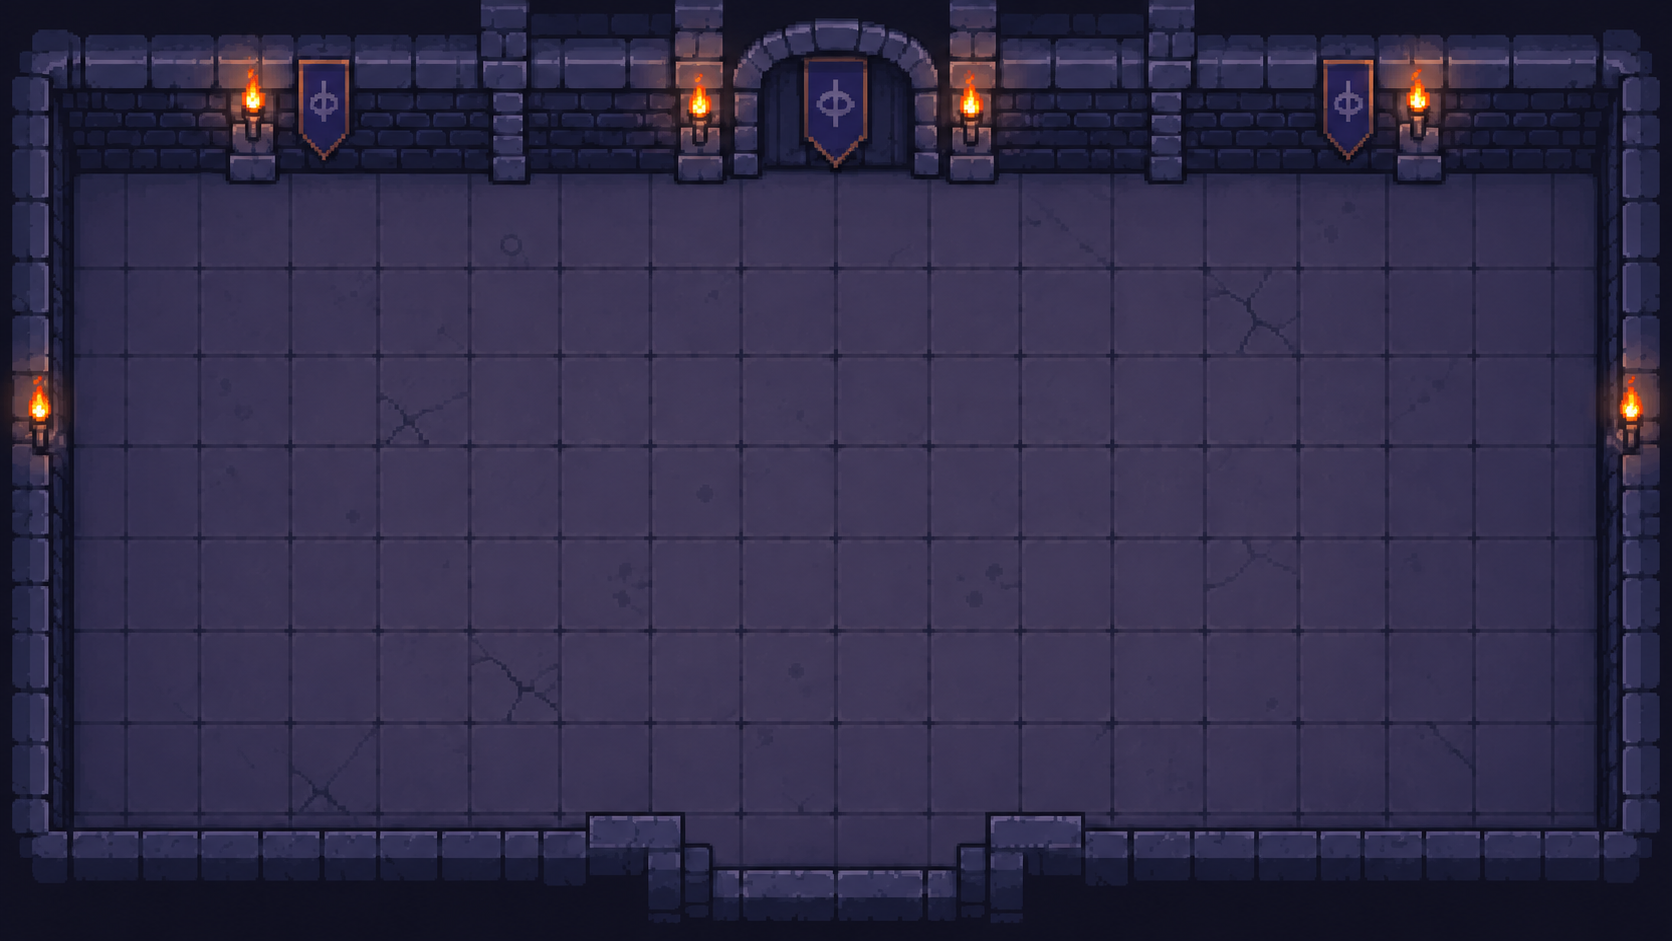
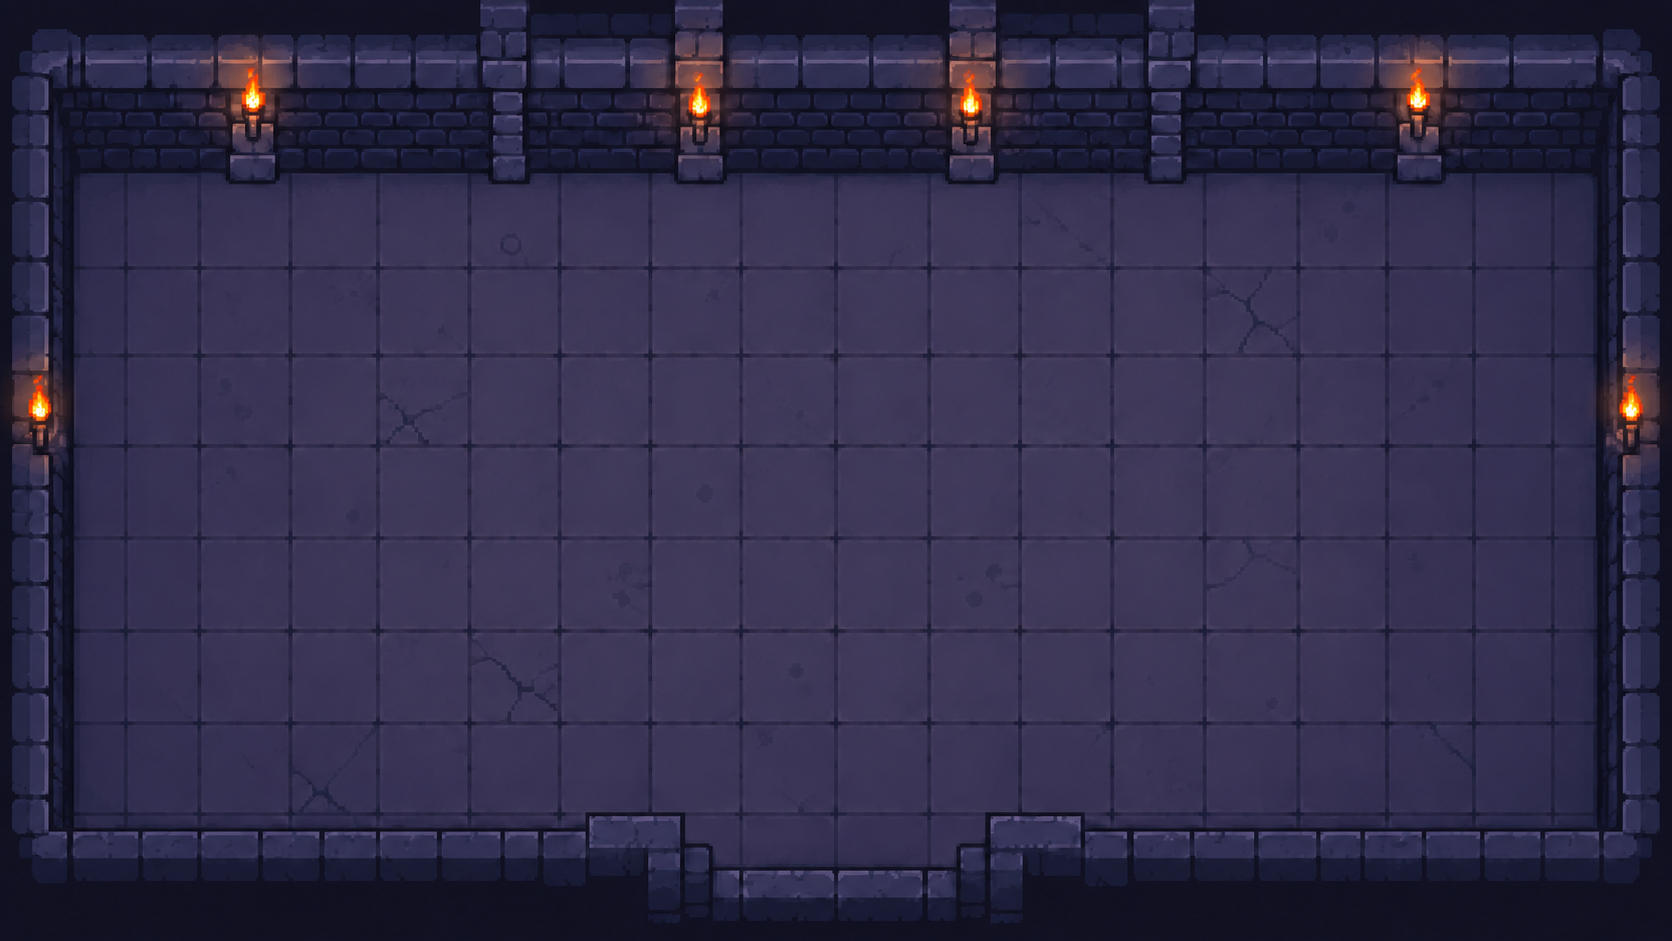
door display

diff --git a/entities/interactables/door.py b/entities/interactables/door.py
@@ -1,0 +1,74 @@
+import pygame
+from core.constants import COLOR_HITBOX_DEBUG
+from core.asset_manager import AssetManager
+
+class Door:
+    """Représente une porte avec sa zone d'entrée et sa récompense."""
+
+    def __init__(self, size: tuple[int, int], centerx: float, bottom: float) -> None:
+        # Frames d'une porte
+        self.frames = [
+            AssetManager.get_image(
+                f"assets/rooms/door_frames/door_{index}.png",
+                scale=size
+            )
+            for index in range(6)
+        ]
+        self.frame_index = 0
+        self.image = self.frames[self.frame_index]
+        self.rect = self.image.get_rect(
+            midbottom=(round(centerx), round(bottom))
+        )
+
+        # Etat de la porte
+        self.is_open = False
+        self.reward_id: str | None = None
+
+        self.animation_timer = 0.0
+        self.frame_duration = 0.08  # Secondes entre deux frames
+
+        # Zone d'entrée placée juste devant la porte
+        self.trigger_rect = pygame.Rect(0, 0, self.rect.width, 50)
+        self.trigger_rect.midtop = self.rect.midbottom
+
+    def can_enter(self, player_rect: pygame.Rect) -> bool:
+        """Indique si le joueur peut entrer dans la porte."""
+        return (
+            self.is_open
+            and self.trigger_rect.colliderect(player_rect)
+        )
+
+    def update(self, dt: float, player_rect: pygame.Rect, enabled: bool) -> None:
+        """Anime l'ouverture ou la fermeture selon la position du joueur."""
+        player_inside = (enabled and self.trigger_rect.colliderect(player_rect))
+        target_frame = len(self.frames) - 1 if player_inside else 0
+
+        if self.frame_index == target_frame:
+            self.animation_timer = 0.0
+            return
+
+        self.animation_timer += dt
+
+        while self.animation_timer >= self.frame_duration:
+            self.animation_timer -= self.frame_duration
+
+            if self.frame_index < target_frame:
+                self.frame_index += 1
+            else:
+                self.frame_index -= 1
+
+            if self.frame_index == target_frame:
+                self.animation_timer = 0.0
+                break
+
+        self.image = self.frames[self.frame_index]
+        self.is_open = self.frame_index == len(self.frames) - 1
+
+    def draw(self, surface: pygame.Surface, debug: bool = False) -> None:
+        """Affiche la porte et sa zone d'entrée si le débug est activé."""
+        surface.blit(self.image, self.rect)
+
+        if debug:
+            pygame.draw.rect(
+                surface, COLOR_HITBOX_DEBUG, self.trigger_rect, 1
+            )

diff --git a/rooms/room.py b/rooms/room.py
@@ -4,6 +4,7 @@ from core.asset_manager import AssetManager
 from core.constants import COLOR_GRID, COLOR_HITBOX_DEBUG
 from entities.enemies import create_enemy
 from entities.obstacles import create_obstacle
+from entities.interactables.door import Door
 
 
 class Room:
@@ -23,6 +24,9 @@ class Room:
             "assets/rooms/default.png",
             scale=(self.play_surface.get_width(), self.play_surface.get_height())
         )
+
+        # Portes des améliorations
+        self.doors: list[Door] =  self._create_doors()
 
         # Grille dynamique calculée selon le layout JSON
         layout = room_data.get("layout", [])
@@ -44,6 +48,20 @@ class Room:
         center_x = self.grid_x + (col + 0.5) * self.tile_size
         center_y = self.grid_y + (row + 0.5) * self.tile_size
         return center_x, center_y
+
+    def _create_doors(self) -> list[Door]:
+        """Crée et positionne les trois portes."""
+        height = max(1, self.play_area.top)
+        width = round(height * 1)
+
+        return [
+            Door(
+                size=(width, height),
+                centerx=self.background.get_width() * x_rel,
+                bottom=self.play_area.top,
+            )
+            for x_rel in (0.23, 0.5, 0.77)
+        ]
 
     def _spawn_obstacles(self, layout: list[str]):
         """Génère tous les obstacles en fonction des symboles du layout (P, W, C, S)."""
@@ -96,6 +114,9 @@ class Room:
         for enemy in self.enemies:
             enemy.update(dt, player=player, play_area=self.play_area, projectile_group=self.enemy_projectiles)
 
+        for door in self.doors:
+            door.update(dt, player.hitbox, self.is_cleared())
+
         self.enemy_projectiles.update(dt)
 
     def draw_grid_debug(self, surface: pygame.Surface):
@@ -108,9 +129,15 @@ class Room:
             y = self.grid_y + row * self.tile_size
             pygame.draw.line(surface, COLOR_GRID, (self.grid_x, y), (self.grid_x + self.grid_width, y), 1)
 
+    def _draw_doors(self, surface: pygame.Surface, debug: bool) -> None:
+        """Dessine les portes"""
+        for door in self.doors:
+            door.draw(surface, debug=debug)
+
     def draw(self, surface: pygame.Surface, debug: bool = False):
         """Affiche le décor, les obstacles, les ennemis et les éléments de débug si activés."""
         surface.blit(self.background, (0, 0))
+        self._draw_doors(surface, debug)
 
         # Obstacles
         for obstacle in self.obstacles:
